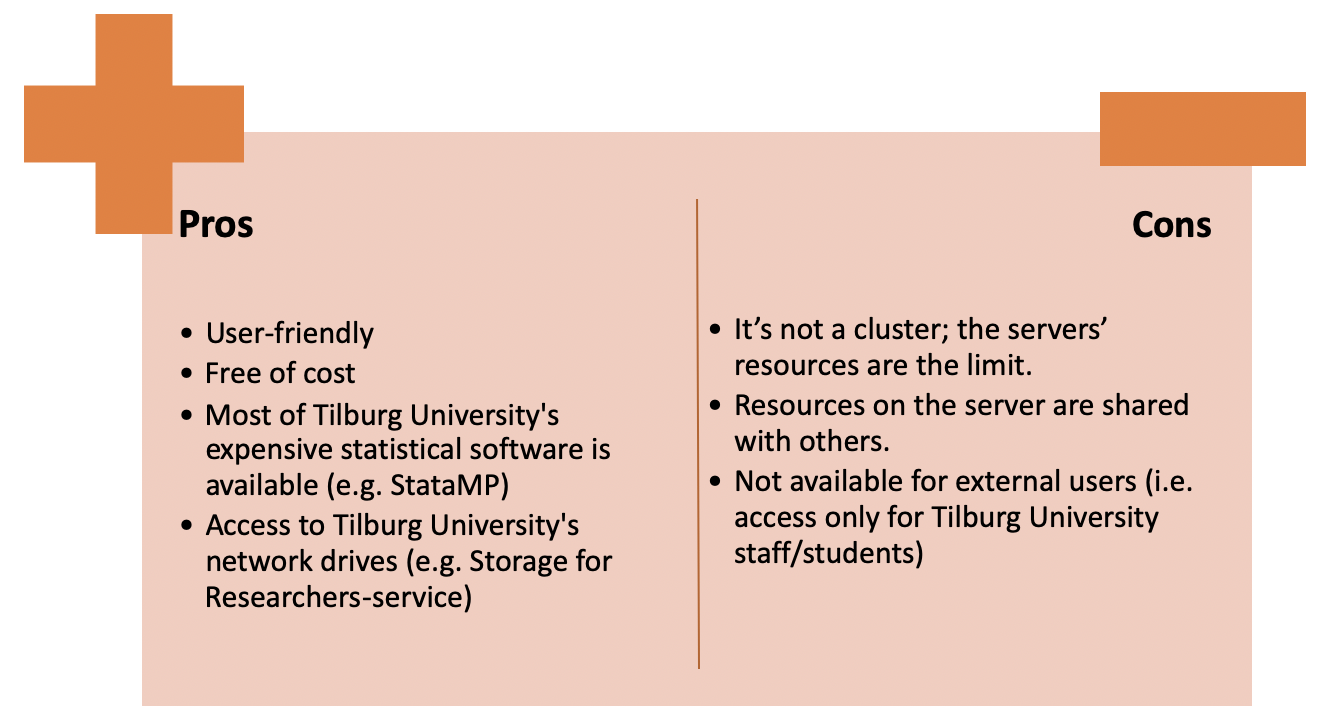
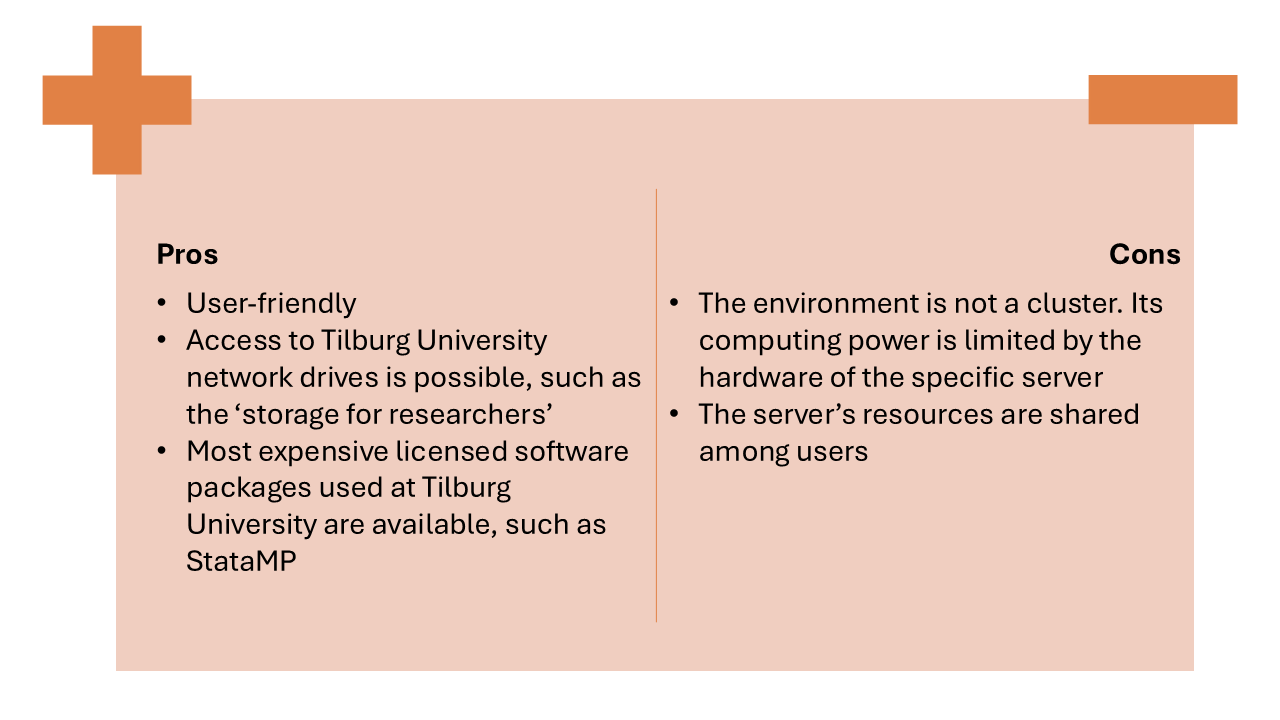
Initial commit

Changed region(s): [[0.0, 0.0, 1.0, 0.9778]]

diff --git a/content/topics/Automation/Replicability/cloud-computing/hpc_tiu.md b/content/topics/Automation/Replicability/cloud-computing/hpc_tiu.md
@@ -1,6 +1,6 @@
 ---
 title: "HPC TiU for Cloud Computing"
-description: "A free cloud solution from Tilburg University for heavy computation tasks."
+description: "A free cloud solution from Tilburg University for heavy computation tasks (employees only)."
 keywords: "cloud, virtual computers, HPC TiU, infrastructure, parallel, research cloud"
 weight: 1
 draft: false
@@ -12,67 +12,63 @@ aliases:
 
 # HPC TiU: Overview
 
-HPC TiU Computing is a service by Tilburg University's Library and IT Services (LIS).
+HPC TiU (High Performance Computing, previously known as TiU Blade Computing) is one of TiU's academic computing environments and started out as a shared workspace for TiSEMS's Finance Department. Its primary purpose was and still is to provide researchers with a shared environment with a lot more sources (memory and processing power) available in contrast to a regular workstation.
 
-{{% warning}}
-**Important Note**
-Every Tilburg University employee can gain access to the Tilburg University High Performance Computing environment. However, the environment is not available to students.
+{{% warning %}}
+__**Important Note**__
+
+Every Tilburg University employee can gain access to the Tilburg University HPC environment. However, the environment is not available to students. Hence, many of the web links in this article may lead to pages on Tilburg University's intranet, which require you to log in with a Tilburg University username that has employee access rights.
 
 Access for external researchers is possible. The guest researcher must have a Tilburg University username, known as a PNIL account (staff-not-on-payroll). A PNIL account can be requested through the HRM department.
 {{% /warning %}}
 
-The environment consists of powerful servers on which researchers can interactively work on data and run statistical computations. This is a Windows-based environment, which looks and feels like a regular Windows desktop. It's accessible through this [web portal](https://rdweb.campus.uvt.nl/RDWeb/webclient/).
+HPC TiU is an interactive environment which looks and feels like a regular TiU Windows workspace. It's a cloud-solution, which means it's available from anywhere in the world (provided there's an internet connection available). Through this environment users have access to a selection of popular statistical software and programming tools, some of which are licensed to use on campus only.
 
 <p align = "center">
-<img src = "../images/blade.png" width="500">
+<img src = "../images/blade.png" width="600">
 <figcaption> Pros and Cons of Using HPC TiU </figcaption>
 </p>
 
-### How to Access HPC TiU?
+### How to request access to HPC TiU?
 
-You can [request access to HPC TiU](https://servicedesk.uvt.nl/tas/public/ssp/content/detail/knowledgeitem?unid=db72c119bf344fb78a196d5b6c669ecc) via the IT Service Desk and filling in a form. Access for external researchers is possible. The guest researcher needs to have a Tilburg University username, and a so-called PNIL-account (staff-not-on-payroll).
-These accounts can be requested at the HRM department.
+You can [request access to HPC TiU](https://servicedesk.uvt.nl/tas/public/ssp/content/detail/knowledgeitem?unid=db72c119bf344fb78a196d5b6c669ecc) via the IT Service Desk and filling in a form. Access for external researchers is possible. The guest researcher needs to have a Tilburg University username, and a so-called PNIL-account (staff-not-on-payroll). These accounts can be requested at the HRM department.
 
-Once your request is approved, you can access HPC TiU:
+Once your request is approved, you can access HPC TiU. HPC TiU servers are protected with MFA, Therefore, you have to make sure you have MFA set up for your account.
 
-- On a **Windows, macOS, ChromeOS or Linux** computer enter the following [URL](https://rdweb.campus.uvt.nl/RDWeb/webclient/) in a recent version of your web browser and sign in with your TiU credentials.
+### Connecting to HPC TiU through an RDP (Remote Desktop Protocol) connection file
 
-**If this doesn't work**, proceed with the following:
+Connect to HPC TiU using the following URL: [https://rdweb.campus.utvt.nl/RDWeb](https://rdweb.campus.utvt.nl/RDWeb). Log in with your TiU user account (campus\\[username]) and password. Select HPC TiU and your settings file will be downloaded. Double-click that file and your session will start. For your convenience, you can place this file on your desktop and use it again later. After clicking connect, your client is going to set up a connection to the HPC TiU server. At that point, the MFA request will be sent to your mobile device. After authorizing the MFA request, your session is started on the HPC TiU server.
 
-- On a **Windows** computer use the following [URL](https://rdweb.campus.uvt.nl/RDWeb/webclient/) in web browser and sign in with your TiU credentials (campus\TiU username)
+### Connecting to HPC TiU through the webinterface (all OS's)
 
-- On a **macOS** computer use Microsoft Remote Desktop Client for Mac (install from App Store), use this web feed [URL](https://rdweb.campus.uvt.nl/RDWeb/feed/webfeed.aspx) and sign in with your TiU credentials (campus\TiU username)
+Alternatively connect through the webinterface to the HPC TiU environment using the following URL: [https://rdweb.campus.uvt.nl/RDWeb/webclient/](https://rdweb.campus.uvt.nl/RDWeb/webclient/). Any OS (__**Windows, macOS, ChromeOS or Linux**__) in combination with a modern browser will do. In this case, you also do not need to download an RDP connection file. Log in with your TiU user account and password. At this point, the MFA request will be sent to your mobile device. Choose your preferences regarding local resources access.
 
-{{% warning %}}
-**Scheduled maintenance**
+### Sensitive datasets
 
-Every **Friday after the 2nd Tuesday of the month** the TiU HPC servers will be put offline for maintenance. You will receive an email reminder each month.
-
-Do **NOT** run your analyses when maintenance is performed, because unsaved work will be lost.
-
-Moreover, each month during the maintenance period, **all personal data stored locally on HPC TiU on scratch drives (D:) will be erased!** Therefore, you should back up your files before.
-{{% /warning %}}
+If you use sensitive data, you should be aware of how or "where" this data is used. You should treat sensitive data with special care and if you're unsure please ask for information from LIS on how to proceed. For example, if one uses a dataset which may only be used on the university campus it could be very likely one may not use HPC TiU.
 
 ### Where to Save your Files?
 
-**M / S / T drive**
+**Local drive access**
 
-- Use M / S / T disc for storing data that must be retained.
+- When using HPC TiU users have access to the local drive of their client computer. It is not recommended using this feature for sensitive data since your local machine might be compromised without you realizing this. Besides that, it's a very slow method.
 
-**D drive (Scratch)**
+**Shared folders**
 
-- Use only the D-disk (Scratch) for temporary data storage.
-  During standard (monthly) maintenance, the D drive is deleted.
+- Users should be aware that, especially with shared folders (like O:-drive) it's possible that other users can (un)intentionally alter files. This could potentially influence the outcome of research using those files. The Tilburg University O:-drive, as is the M:-drive, is backed up daily and it's therefore possible to restore a compromised file to a previous state. The retention time (time backups are kept) is two weeks.
 
-**C drive**
+- The C:-drive is only intended for the Operating System and Applications.
 
-- The C drive is only intended for the Operating System and Applications.
+- The local scratch drives (D:-drive) can be used to create a sub-folder under D:\Data to place the files that require fast disk accesss. To this end the servers are equipped with Solid State Drives (SSD's). Be aware that any data will be removed during the monthly maintenance window.
 
-**E drive**
+- The S:-drive is not being backed up. This drive is intented as a bulk storage for data that at any time can be reproduced or retrieved from its source.
 
-- The E-disk has been used since 12-10-2018 to store the local user profiles. (This is because of possible filling up of the C-drive and thus undermining the entire server).
-- The E-disk contains the user profiles (with, for example, python packages). This E-disk is automatically deleted on restart.
+{{% warning %}}
+__**Scheduled maintenance**__
+
+Every __**Friday after the 2nd Tuesday of the month**__ the TiU HPC servers will be put offline for maintenance. LIS reserves 7:30 am until 12 am to perform necessary maintenance on the servers. Do **NOT** run your analyses when maintenance is performed, because unsaved work will be lost. __**Any personal data stored locally on the servers and the scratch discs will be removed**__ during the maintenance window.
+{{% /warning %}}
 
 {{% tip %}}
-Here are some additional cloud computing solutions you might want to check out to level up your research infrastructure: [SURFsara's LISA Cluster](https://tilburgsciencehub.com/topics/automation/replicability/cloud-computing/lisa_cluster/) and [SURFsara's Cartesius Cluster](https://tilburgsciencehub.com/topics/automation/replicability/cloud-computing/cartesius_cluster/)
+Here is an additional cloud computing solution you might want to check out to level up your research infrastructure: [SURFsara's Cartesius Cluster](https://tilburgsciencehub.com/topics/automation/replicability/cloud-computing/cartesius_cluster/)
 {{% /tip %}}